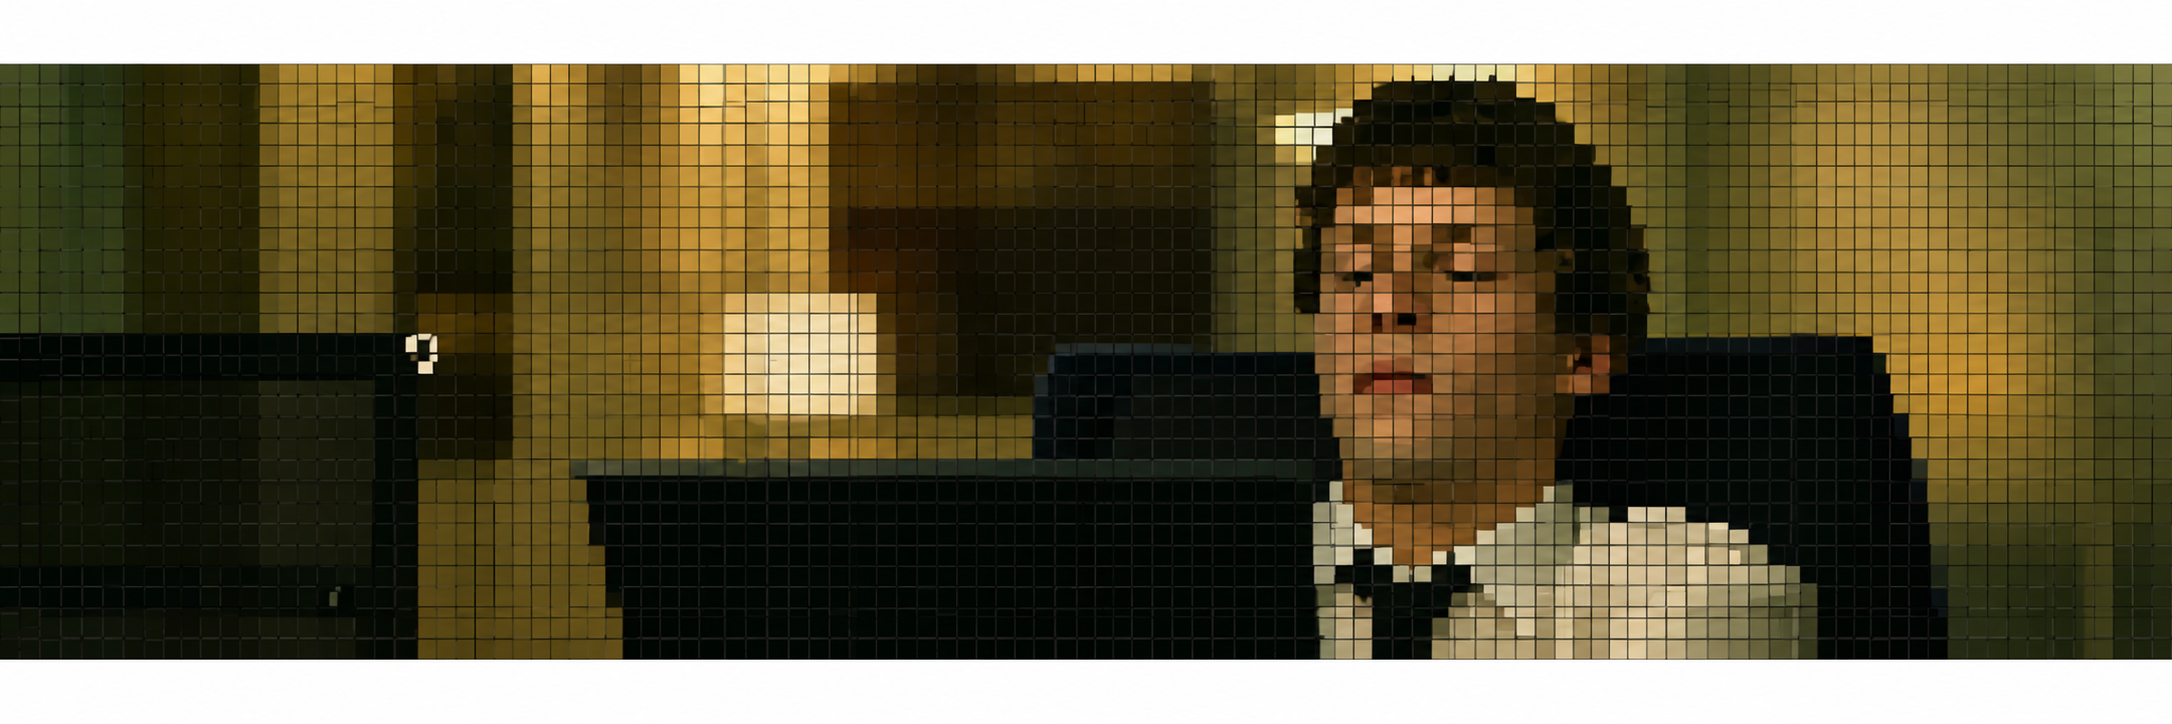
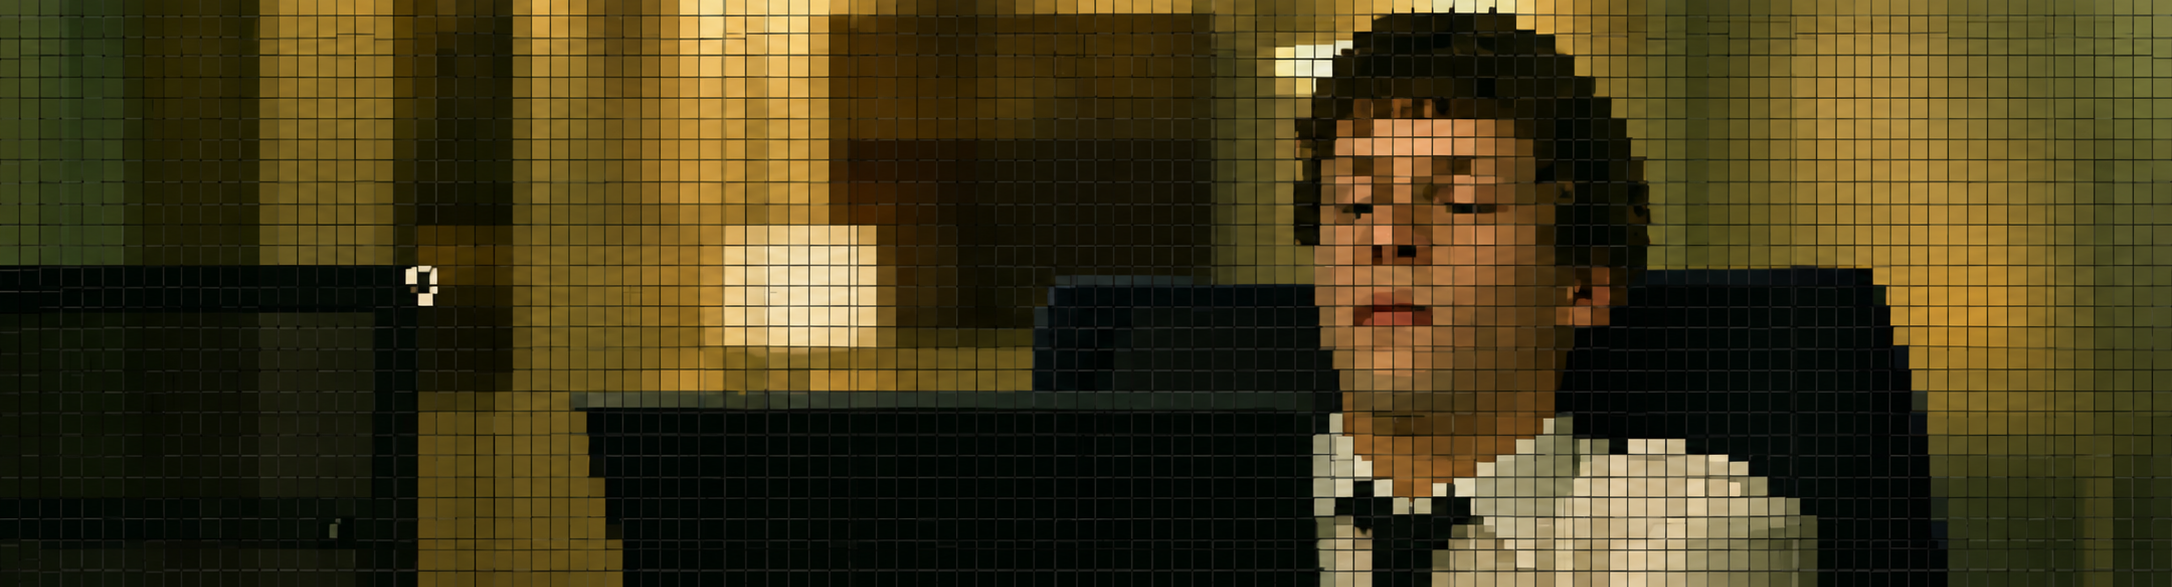
Update image ratio,

diff --git a/components/editor/templates/packageJSON.tsx b/components/editor/templates/packageJSON.tsx
@@ -116,7 +116,7 @@ export default function PackageJSON({
                 <img
                   src={t.banner.url}
                   alt="Header Banner"
-                  className="h-36 w-full object-cover md:h-48"
+                  className="h-auto w-full object-cover "
                 />
               </div>
             </>
@@ -226,7 +226,7 @@ export default function PackageJSON({
             <img
               src={t.banner.url}
               alt="Footer Banner"
-              className="h-36 w-full object-cover md:h-48"
+              className="h-auto w-full object-cover "
             />
           </div>
         )}

diff --git a/components/editor/templates/Bash.tsx b/components/editor/templates/Bash.tsx
@@ -89,7 +89,7 @@ export default function BashStyle({
               src={t.banner.url}
               // src="/banner_header.jpg"
               alt="Header Banner"
-              className="h-36 w-full object-cover md:h-48"
+              className="h-auto w-full object-cover "
             />
           </div>
         )}
@@ -219,7 +219,7 @@ export default function BashStyle({
             <img
               src={t.banner.url}
               alt="Footer Banner"
-              className="h-36 w-full object-cover md:h-48"
+              className="h-auto w-full object-cover"
             />
           </div>
         )}

diff --git a/components/editor/templates/YAML.tsx b/components/editor/templates/YAML.tsx
@@ -92,7 +92,7 @@ export default function Yaml({
               <img
                 src={t.banner.url}
                 alt="Header Banner"
-                className="h-36 w-full object-cover md:h-48"
+                className="h-auto w-full object-cover "
               />
             </div>
           )}
@@ -218,7 +218,7 @@ export default function Yaml({
             <img
               src={t.banner.url}
               alt="Footer Banner"
-              className="h-36 w-full object-cover md:h-48"
+              className="h-auto w-full object-cover "
             />
           </div>
         )}

diff --git a/components/editor/templates/System.tsx b/components/editor/templates/System.tsx
@@ -142,7 +142,7 @@ export default function SystemInfo({
             <img
               src={t.banner.url}
               alt="Header Banner"
-              className="h-36 w-full object-cover md:h-48"
+              className="h-auto w-full object-cover "
             />
           </div>
         )}
@@ -341,7 +341,7 @@ export default function SystemInfo({
             <img
               src={t.banner.url}
               alt="Footer Banner"
-              className="h-36 w-full object-cover md:h-48"
+              className="h-auto w-full object-cover "
             />
           </div>
         )}

diff --git a/components/editor/editor-state.ts b/components/editor/editor-state.ts
@@ -97,7 +97,8 @@ export const BANNER_URL = [
   "/banners/tempImpala.jpg",
   "/banners/dino.jpg",
   "/banners/cat.jpg",
-  "/banners/car.jpg",
+  "/banners/gt3_rs.png",
+  "/banners/ford_gt40.png",
   "/banners/gojo.jpg",
   "/banners/zoro.jpg",
   "/banners/wave.jpg",
